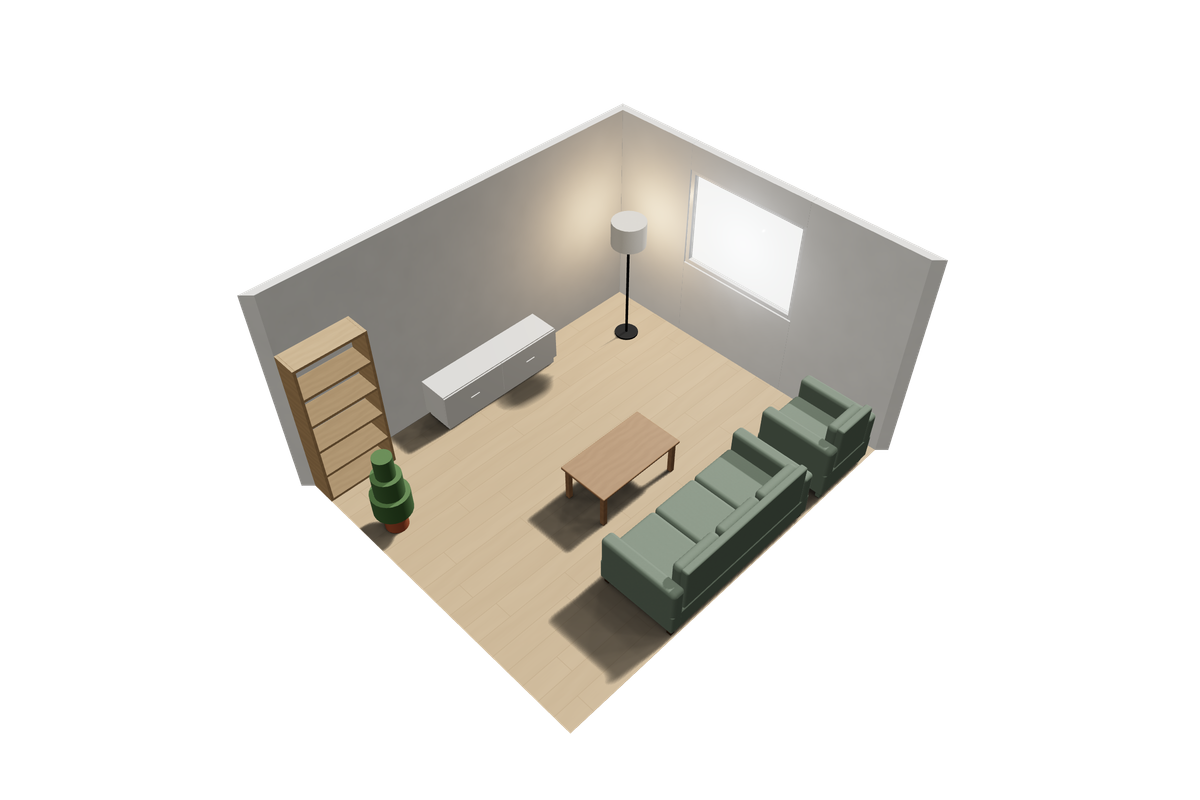
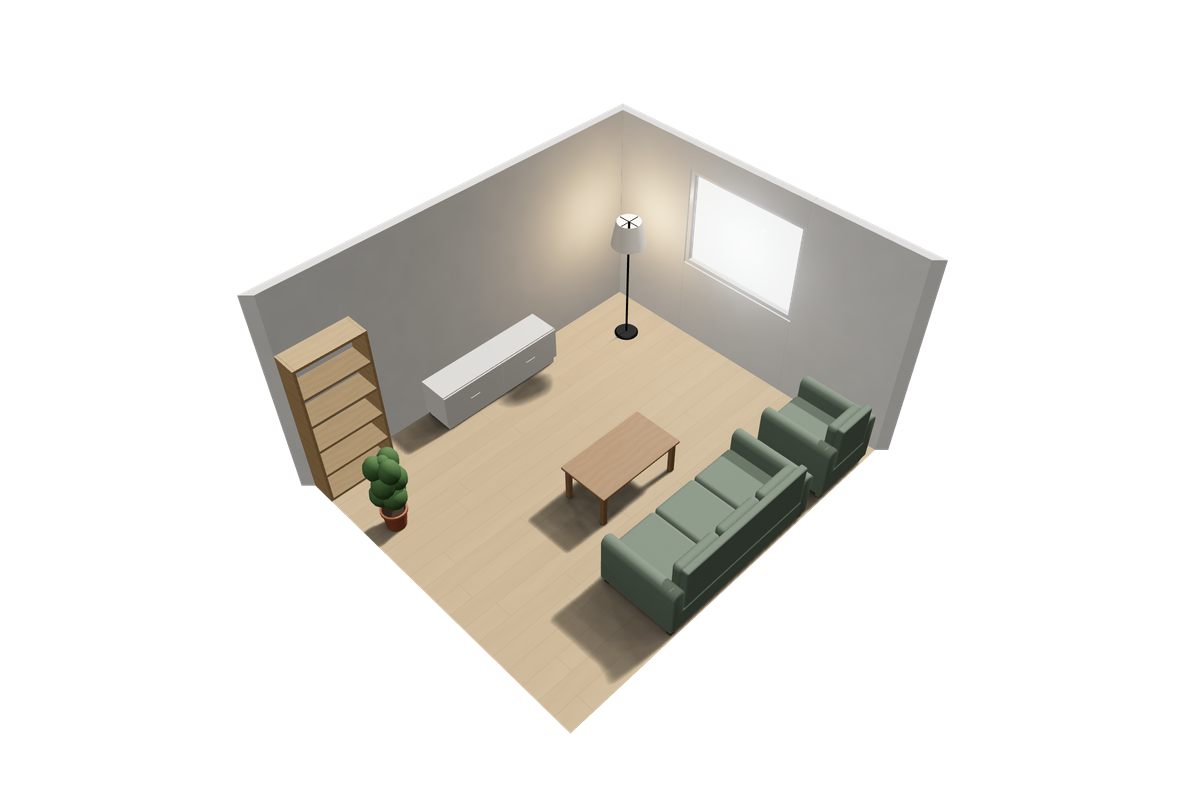
docs(web): imágenes de los ejemplos, de redes y captura 3D de «Cómo funciona» con los modelos nuevos
Los tres ejemplos salen de «Descargar imagen 3D» de una copia (2400 × 1600
reducida a 1200 × 800), imagen-redes.png de npm run imagen-redes y
capturas/vista-3d.webp del editor con la cocina en 3D (1280 × 800 reducida a
1000 × 625). Las otras cuatro capturas son del plano 2D y no cambian.

diff --git a/docs/superpowers/plans/2026-11-10-29-modelos-3d.md b/docs/superpowers/plans/2026-11-10-29-modelos-3d.md
@@ -15,7 +15,7 @@ Se eligió **formas procedurales** (revolución, extrusión, tubo) frente a mode
 3. **Hecha.** `ovalo` en una pieza (mesa auxiliar y de reuniones), papelera y puf de revolución, bañera, campana (pirámide en isla, cuña en pared), grifos de fregadero y bañera, perchero, mesa plegable, silla de oficina, y cuadro y espejo con `marco`. Además, a petición, la silla con el volumen del respaldo de 3 a 6 cm de fondo: el panel se curva 4,5 cm y ahora se nota (los choques bajo el escritorio siguen igual: el respaldo entra o no bajo el tablero en los mismos casos).
 4. **Hecha.** La extrusión admite `radio` (cantos de las tapas redondeados con el bisel de three sobre el contorno encogido). Brazos de sofá enrollados (`brazoEnrollado`: semicírculo arriba y cantos redondeados) en sofá, sillón, sofá cama y rinconera; desaparece `RADIO_BRAZO`. Tiradores de barra (`tiradorDeBarra`, tubo en C de 72 triángulos): de cerca se nota, a la distancia normal del editor apenas. Las almohadas **se quedan** como cajas redondeadas: para que fueran mullidas tendrían que curvarse en dos direcciones, y con estas formas o salen ovaladas en planta (revolución) o sus puntas finas no admiten el radio de los cantos (extrusión).
 
-Al final hay que rehacer `public/ejemplos/*.png`, `imagen-redes.png` y las capturas de «Cómo funciona».
+Al final hay que rehacer `public/ejemplos/*.png`, `imagen-redes.png` y las capturas de «Cómo funciona». **Hecho** tras la fase 4: los tres ejemplos con «Descargar imagen 3D» de una copia (2400 × 1600 reducida a 1200 × 800 con `sharp`), `npm run imagen-redes` y `capturas/vista-3d.webp` (el editor con la cocina en 3D, 1280 × 800 reducida a 1000 × 625); las otras cuatro capturas son del plano 2D y no cambian. En el dormitorio el armario tapa media habitación, igual que en la imagen anterior: es la colocación del ejemplo, no de este plan.
 
 ## Medidas
 
